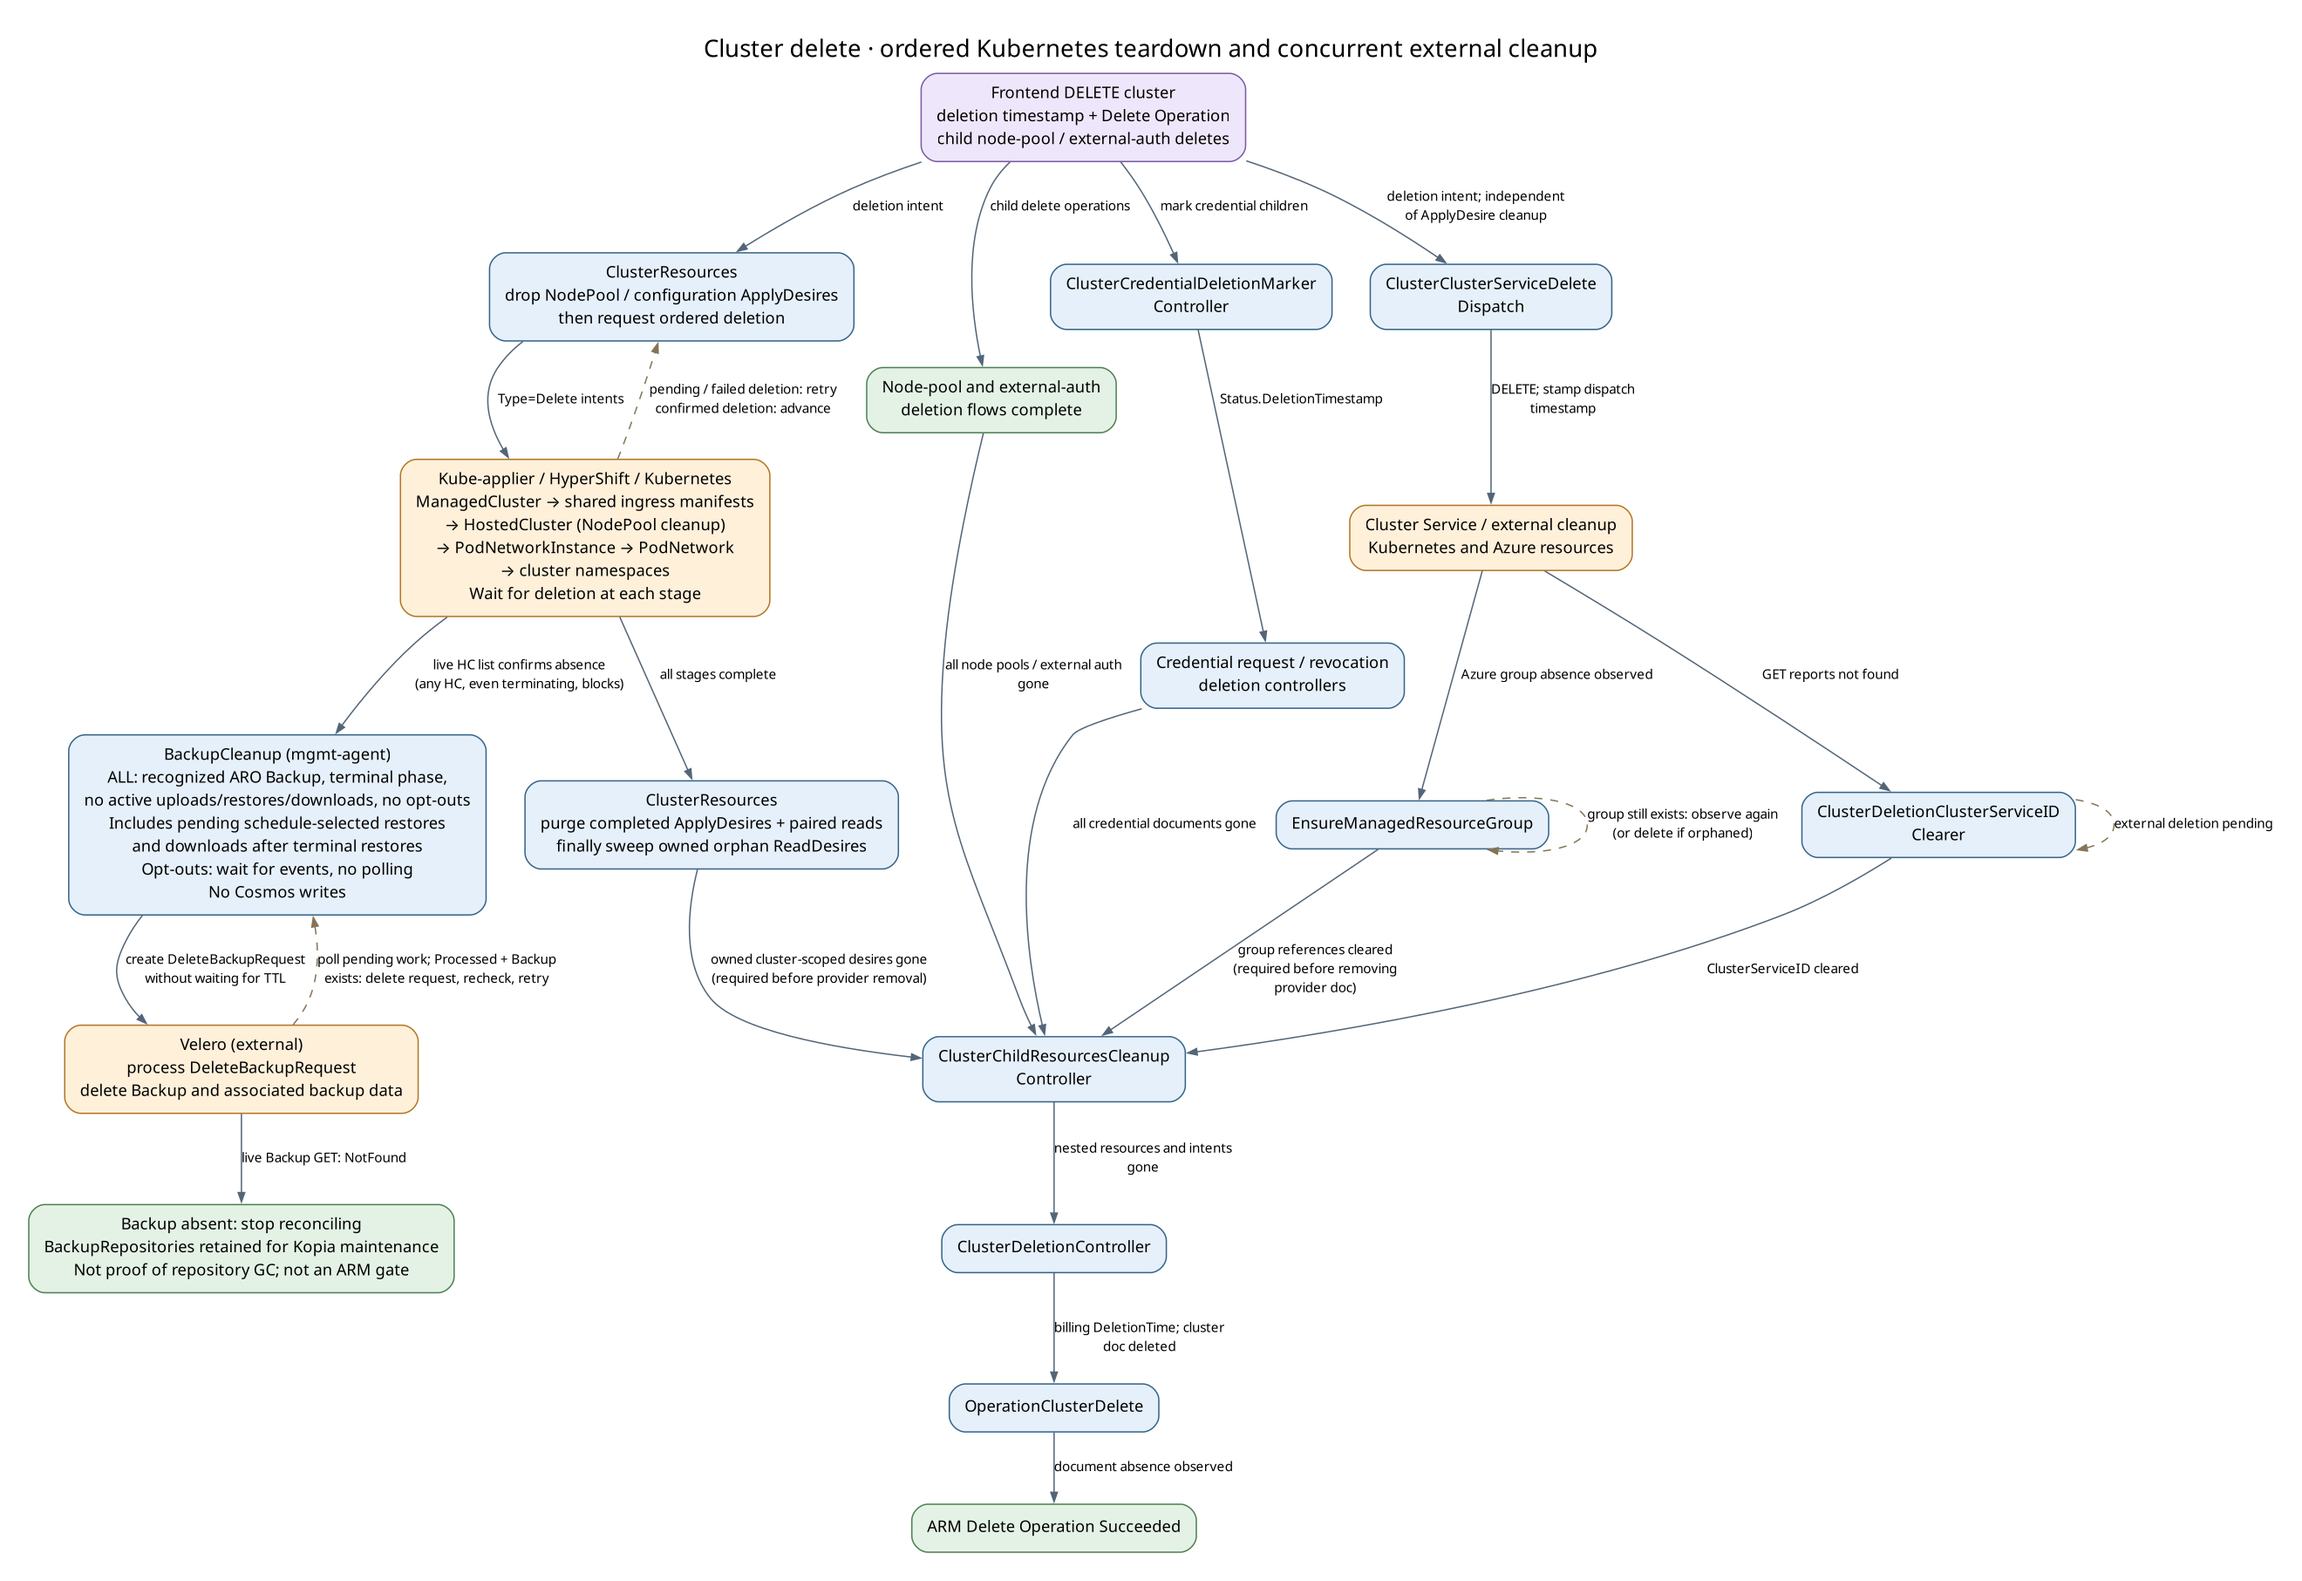
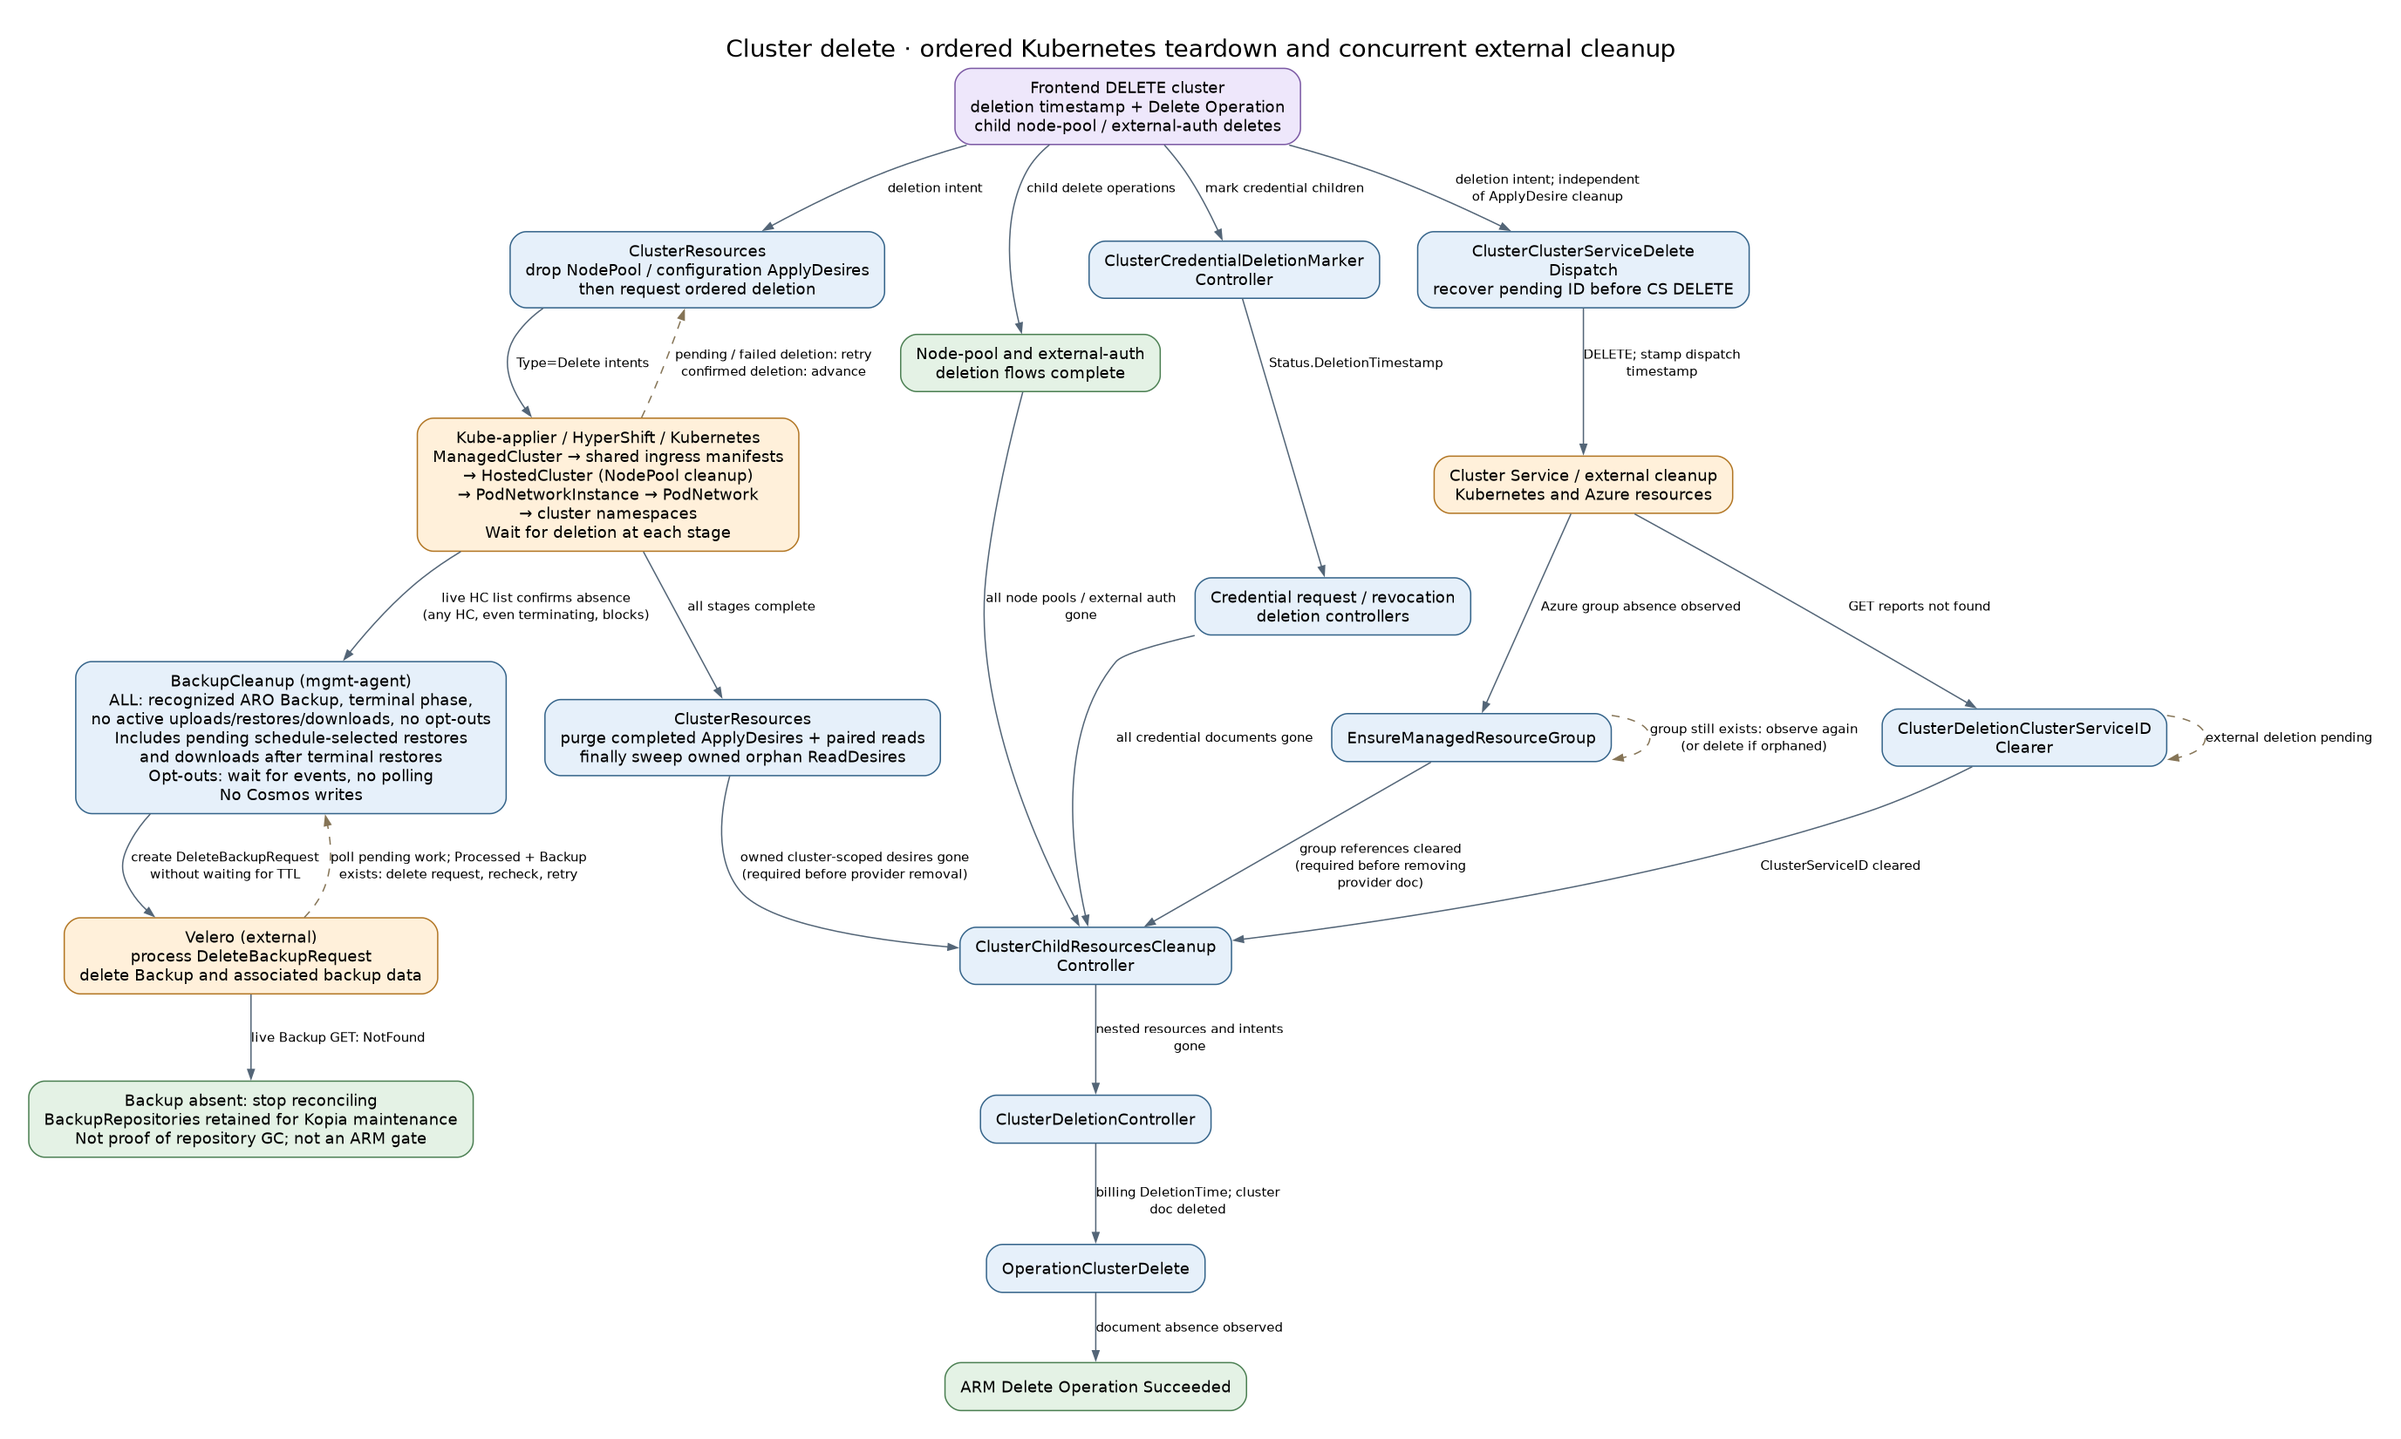
fix(backend): recover pending CS creation during cluster deletion

diff --git a/backend/pkg/controllers/cluster/deletion/pending_cs_deletion_test.go b/backend/pkg/controllers/cluster/deletion/pending_cs_deletion_test.go
@@ -1,0 +1,62 @@
+// Copyright 2026 Microsoft Corporation
+// Licensed under the Apache License, Version 2.0 (the "License");
+// you may not use this file except in compliance with the License.
+// You may obtain a copy of the License at http://www.apache.org/licenses/LICENSE-2.0
+// Unless required by applicable law or agreed to in writing, software
+// distributed under the License is distributed on an "AS IS" BASIS,
+// WITHOUT WARRANTIES OR CONDITIONS OF ANY KIND, either express or implied.
+// See the License for the specific language governing permissions and
+// limitations under the License.
+
+package deletion
+
+import (
+	"testing"
+
+	"github.com/google/go-cmp/cmp"
+
+	metav1 "k8s.io/apimachinery/pkg/apis/meta/v1"
+
+	"github.com/Azure/ARO-HCP/internal/api/coreapi"
+	"github.com/Azure/ARO-HCP/internal/api/metadataapi"
+)
+
+func TestRecoverPendingDeletionTarget(t *testing.T) {
+	pending := metadataapi.Must(metadataapi.NewInternalID("/api/aro_hcp/v1alpha1/clusters/pending"))
+	confirmed := metadataapi.Must(metadataapi.NewInternalID("/api/aro_hcp/v1alpha1/clusters/confirmed"))
+	deleting := metav1.Unix(1000, 0)
+	tests := []struct {
+		name  string
+		input coreapi.ClusterServiceProviderProperties
+		want  *coreapi.ClusterServiceProviderProperties
+	}{
+		{name: "accepted POST with lost response", input: coreapi.ClusterServiceProviderProperties{DeletionTimestamp: &deleting, PendingClusterServiceID: &pending}, want: &coreapi.ClusterServiceProviderProperties{DeletionTimestamp: &deleting, ClusterServiceID: &pending}},
+		{name: "failed identity persistence preserves other state", input: coreapi.ClusterServiceProviderProperties{DeletionTimestamp: &deleting, PendingClusterServiceID: &pending, ClusterUID: "aro-uid", DNS: coreapi.ServiceProviderDNSProfile{BaseDomain: "abcd.example.com"}}, want: &coreapi.ClusterServiceProviderProperties{DeletionTimestamp: &deleting, ClusterServiceID: &pending, ClusterUID: "aro-uid", DNS: coreapi.ServiceProviderDNSProfile{BaseDomain: "abcd.example.com"}}},
+		{name: "delete before POST completes", input: coreapi.ClusterServiceProviderProperties{DeletionTimestamp: &deleting, PendingClusterServiceID: &pending}, want: &coreapi.ClusterServiceProviderProperties{DeletionTimestamp: &deleting, ClusterServiceID: &pending}},
+		{name: "confirmed identity wins", input: coreapi.ClusterServiceProviderProperties{DeletionTimestamp: &deleting, PendingClusterServiceID: &pending, ClusterServiceID: &confirmed}},
+		{name: "active cluster", input: coreapi.ClusterServiceProviderProperties{PendingClusterServiceID: &pending}},
+		{name: "dispatch already recorded", input: coreapi.ClusterServiceProviderProperties{DeletionTimestamp: &deleting, ClusterServiceDeletionTimestamp: &deleting, PendingClusterServiceID: &pending}},
+		{name: "never assigned", input: coreapi.ClusterServiceProviderProperties{DeletionTimestamp: &deleting}},
+	}
+	opts := cmp.Comparer(func(a, b metadataapi.InternalID) bool { return a.String() == b.String() })
+	for _, tt := range tests {
+		t.Run(tt.name, func(t *testing.T) {
+			input := &coreapi.Cluster{CosmosMetadata: coreapi.CosmosMetadata{CosmosETag: "observed-etag", InstanceVersion: 4}, ServiceProviderProperties: tt.input}
+			before := input.DeepCopy()
+			got := recoverPendingDeletionTarget(input)
+			var want *coreapi.Cluster
+			if tt.want != nil {
+				want = &coreapi.Cluster{CosmosMetadata: coreapi.CosmosMetadata{CosmosETag: "observed-etag", InstanceVersion: 4}, ServiceProviderProperties: *tt.want}
+			}
+			if diff := cmp.Diff(want, got, opts); diff != "" {
+				t.Fatal(diff)
+			}
+			if diff := cmp.Diff(before, input, opts); diff != "" {
+				t.Fatalf("mutated observation: %s", diff)
+			}
+			if got != nil && recoverPendingDeletionTarget(got) != nil {
+				t.Fatal("recovery should not repeat once target is persisted")
+			}
+		})
+	}
+}

diff --git a/backend/pkg/controllers/cluster/deletion/cluster_cluster_service_delete_dispatch_controller.go b/backend/pkg/controllers/cluster/deletion/cluster_cluster_service_delete_dispatch_controller.go
@@ -153,6 +153,14 @@ func (c *clusterClusterServiceDeleteDispatchSyncer) SyncOnce(ctx context.Context
 	}
 
 	csID := cluster.ServiceProviderProperties.ClusterServiceID
+	// CS may have accepted POST while the response or the subsequent Cosmos
+	// replacement was lost. Creation stops reconciling once deletion begins, so
+	// recover its persisted target here instead of timing out and abandoning CS.
+	if replacement := recoverPendingDeletionTarget(cluster); replacement != nil {
+		logger.Info("Recovering pending CS creation as deletion target", "clusterServiceID", replacement.ServiceProviderProperties.ClusterServiceID.String())
+		_, err := clusterCRUD.Replace(ctx, replacement, nil)
+		return err
+	}
 	if csID == nil || len(csID.String()) == 0 {
 		elapsed := c.clock.Since(firstSeenClusterDeletionTimestamp)
 		if elapsed < missingClusterServiceIDTimeout {
@@ -194,4 +202,23 @@ func (c *clusterClusterServiceDeleteDispatchSyncer) SyncOnce(ctx context.Context
 	c.firstSeenDeletionTimestampCache.Remove(cacheKey)
 
 	return nil
+}
+
+// recoverPendingDeletionTarget produces only the replacement needed to route
+// deletion and its absence observer through the ordinary CS lifecycle.
+func recoverPendingDeletionTarget(cluster *coreapi.Cluster) *coreapi.Cluster {
+	properties := cluster.ServiceProviderProperties
+	if properties.DeletionTimestamp == nil || properties.ClusterServiceDeletionTimestamp != nil {
+		return nil
+	}
+	if properties.ClusterServiceID != nil && properties.ClusterServiceID.String() != "" {
+		return nil
+	}
+	if properties.PendingClusterServiceID == nil || properties.PendingClusterServiceID.String() == "" {
+		return nil
+	}
+	updated := cluster.DeepCopy()
+	updated.ServiceProviderProperties.ClusterServiceID = properties.PendingClusterServiceID
+	updated.ServiceProviderProperties.PendingClusterServiceID = nil
+	return updated
 }

diff --git a/docs/cosmos-data-flow.md b/docs/cosmos-data-flow.md
@@ -1135,7 +1135,7 @@ Requires cached cluster/provider documents and an SRE `Spec.PinnedVersion.ExactV
 
 [Source](../backend/pkg/controllers/cluster/deletion/cluster_cluster_service_delete_dispatch_controller.go) · **Trigger:** Cluster; 1m.
 
-Requires deletion intent and no dispatch timestamp. Calls Cluster Service DELETE and stamps `ClusterServiceDeletionTimestamp` independently of ClusterResources teardown; there is no ApplyDesire gate. A missing ID or external 404 waits up to 120s from first observed deletion to cover creation races; this is not a dispatch interval.
+Requires deletion intent and no dispatch timestamp. When no confirmed CS ID exists but a pending ID is persisted, first promotes the pending ID to the deletion target and returns. This recovers CS creates whose response or subsequent Cosmos ID write was lost. The following reconciliation calls Cluster Service DELETE and stamps `ClusterServiceDeletionTimestamp` independently of ClusterResources teardown; the normal ID clearer then requires CS absence. A missing ID without a pending target, or external 404, waits up to 120s from first observed deletion to cover creation races; this is not a dispatch interval.
 
 #### ClusterDeletionClusterServiceIDClearer
 
